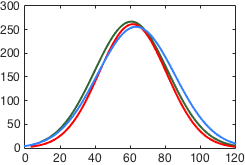
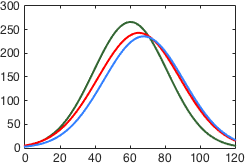
Finish trick player

Changed region(s): [[0.0857, 0.1212, 0.9714, 0.9091]]

diff --git a/partials/52_parametrizing.tex b/partials/52_parametrizing.tex
@@ -76,7 +76,7 @@ However, comparing the three histograms gets easier when merging the three fitti
 
 In scenario (a), results were very balanced, as expected, because all players had the same deliberation process.
 In 1000 games one of the teams obtained a winning percentage of 48.5\%, a drawing percentage of 1.9\% and a losing percentage of 49.6\%.
-The scenario (b) showed that a team with 1 Rule-based player and 1 Random player can beat a 2 Random players team with a winning percentage of 5.6\%, a drawing percentage of 1.8\% and a losing percentage of 41.6\%.
+The scenario (b) showed that a team with 1 Rule-based player and 1 Random player can beat a 2 Random players team with a winning percentage of 51.6\%, a drawing percentage of 1.8\% and a losing percentage of 41.6\%.
 Finally, in scenario (c), the team with 2 Rule-based players beat the the 2 Random players with the highest winning percentage of 61.1\%, a drawing percentage of 1.8\% and losing percentage of 37.1\%.
 
 A player's performance can only be measured when playing with different players, otherwise, playing a considerable amount of games will balance the winning and losing rates, as seen in scenario (a).
@@ -169,12 +169,12 @@ Nevertheless, regarding \emph{easy} initial conditions, the team with 1 Rule-bas
 
 \begin{figure}[h!]
   \centering
-    \includegraphics[width=0.7\textwidth]{./img/5/ABC-fr}
+    \includegraphics[width=0.7\textwidth]{./img/5/ABC-frg}
   \caption{filipa}
-\label{fig:ABC-fr}
+\label{fig:ABC-frg}
 \end{figure}
 
-Additionally, the \acp{fgr}, presented in Figure~\ref{fig:ABC-fr}, measure the effectiveness of players when competing with each other.
+Additionally, the \acp{fgr}, presented in Figure~\ref{fig:ABC-frg}, measure the effectiveness of players when competing with each other.
 This rate also evidenced that the Rule-based player outperforms the Random player, mainly based on the \ac{fgr} of the \emph{medium} hands, in which the confidence is higher due to number of samples.
 
 In sum, the Rule-based player guided the development of new measures and will be the benchmark for evaluating the \ac{pimc} algorithm.
@@ -204,7 +204,7 @@ In order to observe the Trick player performance, it will be considered the foll
 \item (e) 1000 games with 2 Trick players against 2 Rule-based players [orange].
 \end{itemize}
 
-The \ac{fgr} of the team with 1 Trick player and 1 Rule-based (d) was 52,8\% (50,5\% won games and 2,3\% drew games), and at the same time, the \ac{fgr} of the team with 2 Trick players (e) was 55,6\% (53,4\% won games and 2,2\% drew games).
+The \ac{fgr} of the team with 1 Trick player and 1 Rule-based (d) was 52.8\% (50.5\% won games and 2.3\% drew games), and at the same time, the \ac{fgr} of the team with 2 Trick players (e) was 55.6\% (53.4\% won games and 2.2\% drew games).
 In the same way of the difference between scenarios (b) and (c), having two Trick players on the same team significantly improves the results when compared to only one.
 This evidence was expected, since \emph{Sueca} is a team game.
 
@@ -217,6 +217,44 @@ This evidence was expected, since \emph{Sueca} is a team game.
 
 Additionally, Figure~\ref{fig:ADE} presents the distributions of the 1000 obtained final scores from each scenario.
 Scenario (a, green) was also included to provide a guide of equilibrium.
-The scenario (d, yellow) has its Gaussian fitting curve nearly coincident with the scenario (a), suggesting one Trick player in a team does not influence the results.
-On the other hand, scenario (e, orange) has a higher distribution between 60 and 80 points.
+The Gaussian fitting curve of scenario (d, yellow) is nearly coincident with the one of scenario (a), suggesting one Trick player in a team does not influence the results.
+On the other hand, a team with 2 Trick players, scenario (e, orange), evidences a higher distribution between 60 and 80 points.
+These conclusions are also supported by the \acp{fgr} of 50.4\%, 50.5\% and 53.4\% from the teams of scenarios (a), (d) and (e), respectively.
+
+\begin{figure}[h]
+        \centering
+        \begin{subfigure}[h]{0.32\textwidth}
+                \includegraphics[width=\textwidth]{./img/5/ADEhard}
+                \caption{filipa}
+                \label{fig:ADEhard}
+        \end{subfigure}
+        \begin{subfigure}[h]{0.32\textwidth}
+                \includegraphics[width=\textwidth]{./img/5/ADEmedium}
+                \caption{filipa}
+                \label{fig:ADEmedium}
+        \end{subfigure}
+        \begin{subfigure}[h]{0.32\textwidth}
+                \includegraphics[width=\textwidth]{./img/5/ADEeasy}
+                \caption{filipa}
+                \label{fig:ADEeasy}
+        \end{subfigure}
+        \caption{filipa}
+        \label{fig:ADE-CH}
+\end{figure}
+
+When analysing the Gaussian fitting curves divided into the classes of initial hands, results agree with previous conclusions, except for the \emph{hard} classification of initial conditions.
+So, in scenario (e, orange) the team of 2 Trick players achieved higher scores with \emph{hard} and \emph{medium} hands, while with \emph{easy} hands the modal values of the three scenarios seem to be concurrent.
+However, as previously mentioned, out of each 1000 collected games, a few percentage refers to games with \emph{hard} or \emph{easy} initial conditions (between 2\% and 3\% each one), which means the apparent results from \emph{hard} and \emph{easy} initial conditions have low confidence values.
+
+\begin{figure}[h!]
+  \centering
+    \includegraphics[width=0.7\textwidth]{./img/5/ADE-frg}
+  \caption{filipa}
+\label{fig:ADE-frg}
+\end{figure}
+
+Moreover, the \acp{fgr} in Figure~\ref{fig:ADE-frg} evidenced that the Trick player slightly outperforms the Rule-based player, mainly based on the \ac{fgr} of the \emph{medium} hands, in which the confidence is higher due to number of samples.
+The unexpected differences on scenario (d) with both \emph{hard} and \emph{easy} initial conditions refer to only one game, in both cases, and may reflect some flaws on the classification inferred from the linear regression.
+
+
 
